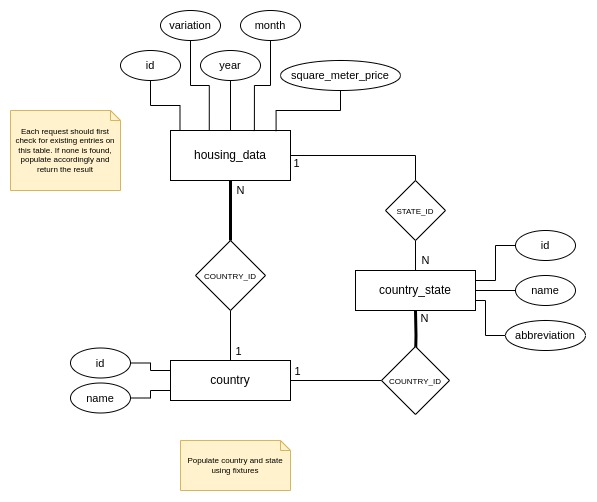
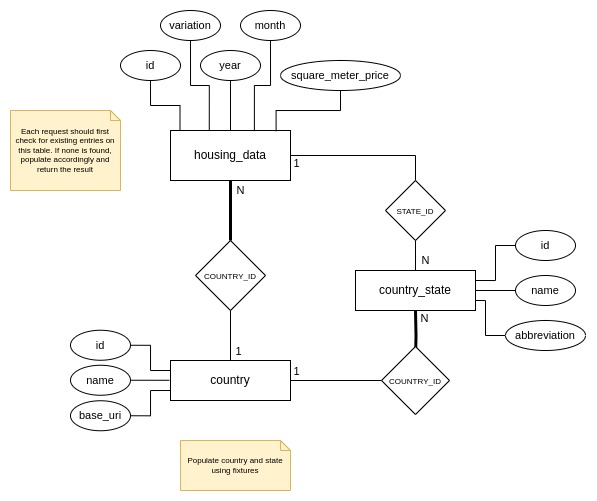
docs: create README and update schema on docs

diff --git a/README.md b/README.md
@@ -1,0 +1,132 @@
+# world-housing-api
+*world-housing-api* is a Django REST Framework (DRF) intended to serve data concerning housing prices and monthly variations from several countries in the same place.
+
+You can check the auto-generated docs or some documentation under the `docs/` folder.
+
+## Usage
+### Get housing data for a specific month for a specific country
+```
+GET /housing/<country>/<year>/<month>
+```
+
+**Response**
+```
+{
+  "square_meter_price": float,   # average square meter price in dolars
+  "variation": float             # pricing variation in relation to past month (E.g. 0.01 = 1%)
+}
+```
+
+E.g. `/housing/brazil/2024/01` would return data for January 2024 in Brazil.
+
+### Get housing data for a specific country in a time range
+```
+GET /housing/<country>/<initial_year>/<initial_month>/<final_year>/<final_month>
+```
+
+**Response**
+```
+{
+  "variation": float  # total pricing variation, which is the product of all variations except from the initial month (E.g. 0.01 = 1%)
+  "monthly": [
+    "<month>/<year>": {
+      "square_meter_price": float,   # average square meter price in dolars
+      "variation": float             # pricing variation in relation to past month (E.g. 0.01 = 1%)
+    },
+    ...
+  ]
+}
+```
+
+E.g. `/housing/brazil/2023/01/2024/12` would return data from January 2023 until December 2024 in Brazil.
+
+### Get housing data for a specific month for certain states
+```
+GET /housing/<country>/<state_1_abbreviation>-<state_2_abbreviation>-<state_3_abbreviation>/<year>/<month>/
+```
+
+**Response**
+```
+{
+  <state_1_abbreviation>: {
+    "square_meter_price": float,   # average square meter price in dolars
+    "variation": float             # pricing variation in relation to past month (E.g. 0.01 = 1%)
+  },
+  <state_2_abbreviation>: {
+    ...
+  },
+  ...
+}
+```
+
+E.g. `/housing/brazil/2024/01/sc-rj` would return data for January 2024 in SC and RJ (Brazillian states).
+NOTE: you can use as many states as you wish by including abbreviations, as well as using just a single one to get a single result.
+
+### Get housing data for certain states in a time range
+```
+GET /housing/<country>/<state_1_abbreviation>-<state_2_abbreviation>-<state_3_abbreviation>/<initial_year>/<initial_month>/<final_year>/<final_month>
+```
+
+**Response**
+```
+{
+  <state_1_abbreviation>: {
+    "variation": float  # total pricing variation, which is the product of all variations except from the initial month (E.g. 0.01 = 1%)
+    "monthly": [
+      "<month>/<year>": {
+        "square_meter_price": float,   # average square meter price in dolars
+        "variation": float             # pricing variation in relation to past month (E.g. 0.01 = 1%)
+      },
+      ...
+    ]
+  },
+  <state_2_abbreviation>: {
+    ...
+  },
+  ...
+}
+```
+
+### Get countries available
+```
+GET /housing/countries
+```
+
+**Response**
+```
+[
+  {
+    "name": string,
+    "base_uri": string,
+    "states": [
+      {
+        "name": string,
+        "abbreviation": string
+      },
+      ...
+    ]
+  },
+  ...
+]
+```
+
+The `base_uri` parameter is relative to the `<country>` in the URIs, while `abbreviation` is relative to `<state_N_abbreviation>`.
+
+### Get states available for a certain country
+```
+GET /housing/<country>/states
+```
+
+**Response**
+```
+[
+  {
+    "name": string,
+    "abbreviation": string
+  },
+  ...
+]
+```
+
+The `abbreviation` parameter is relative to `<state_N_abbreviation>`.
+
